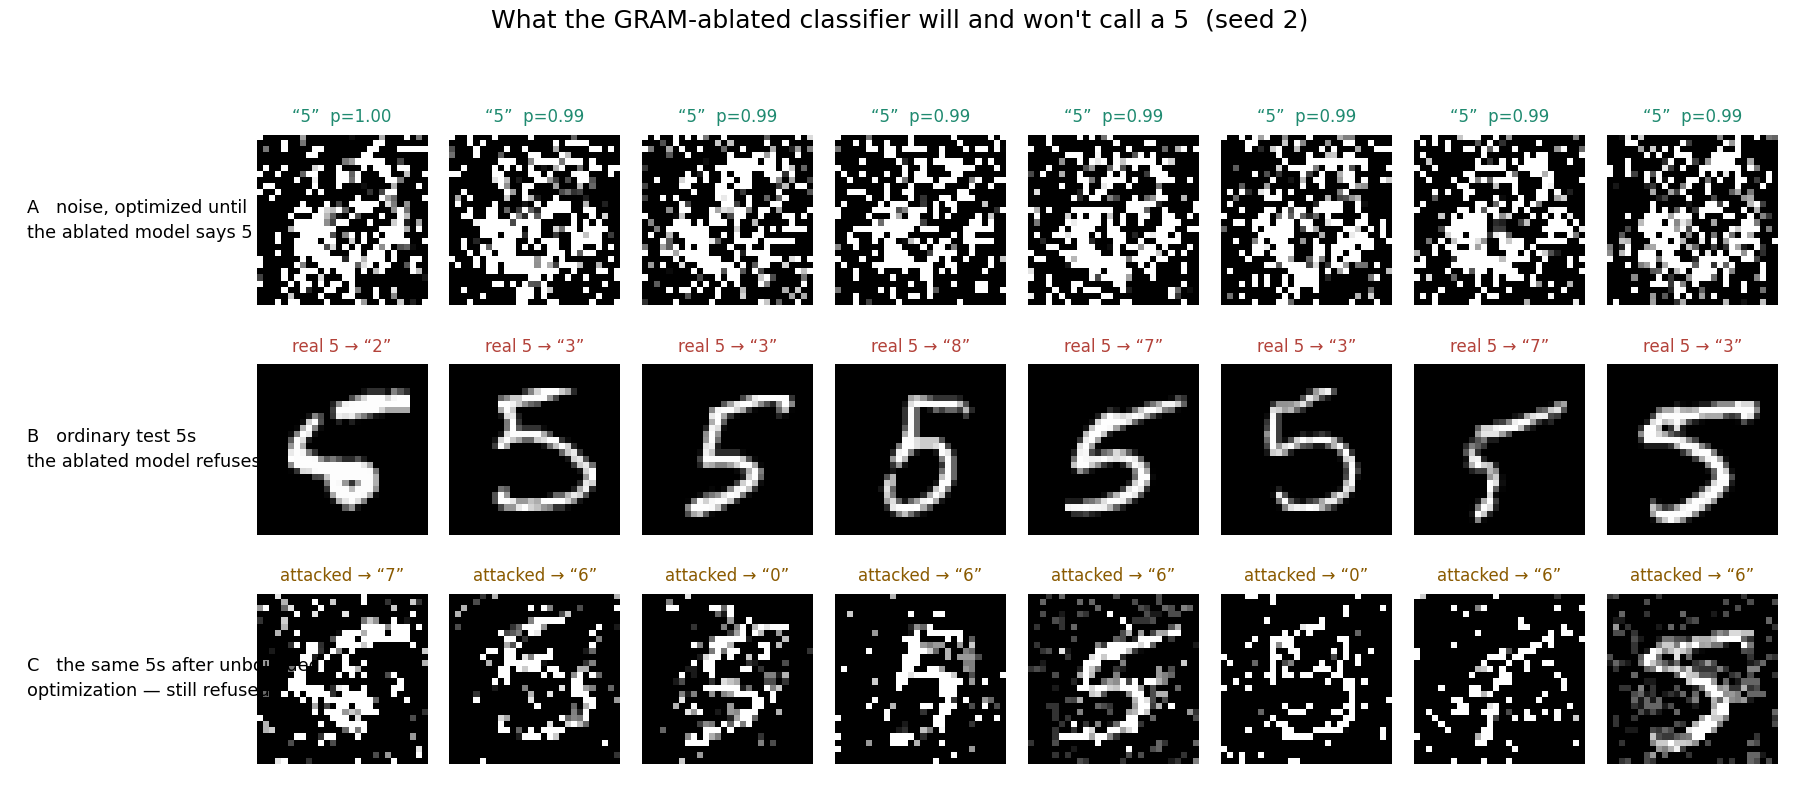
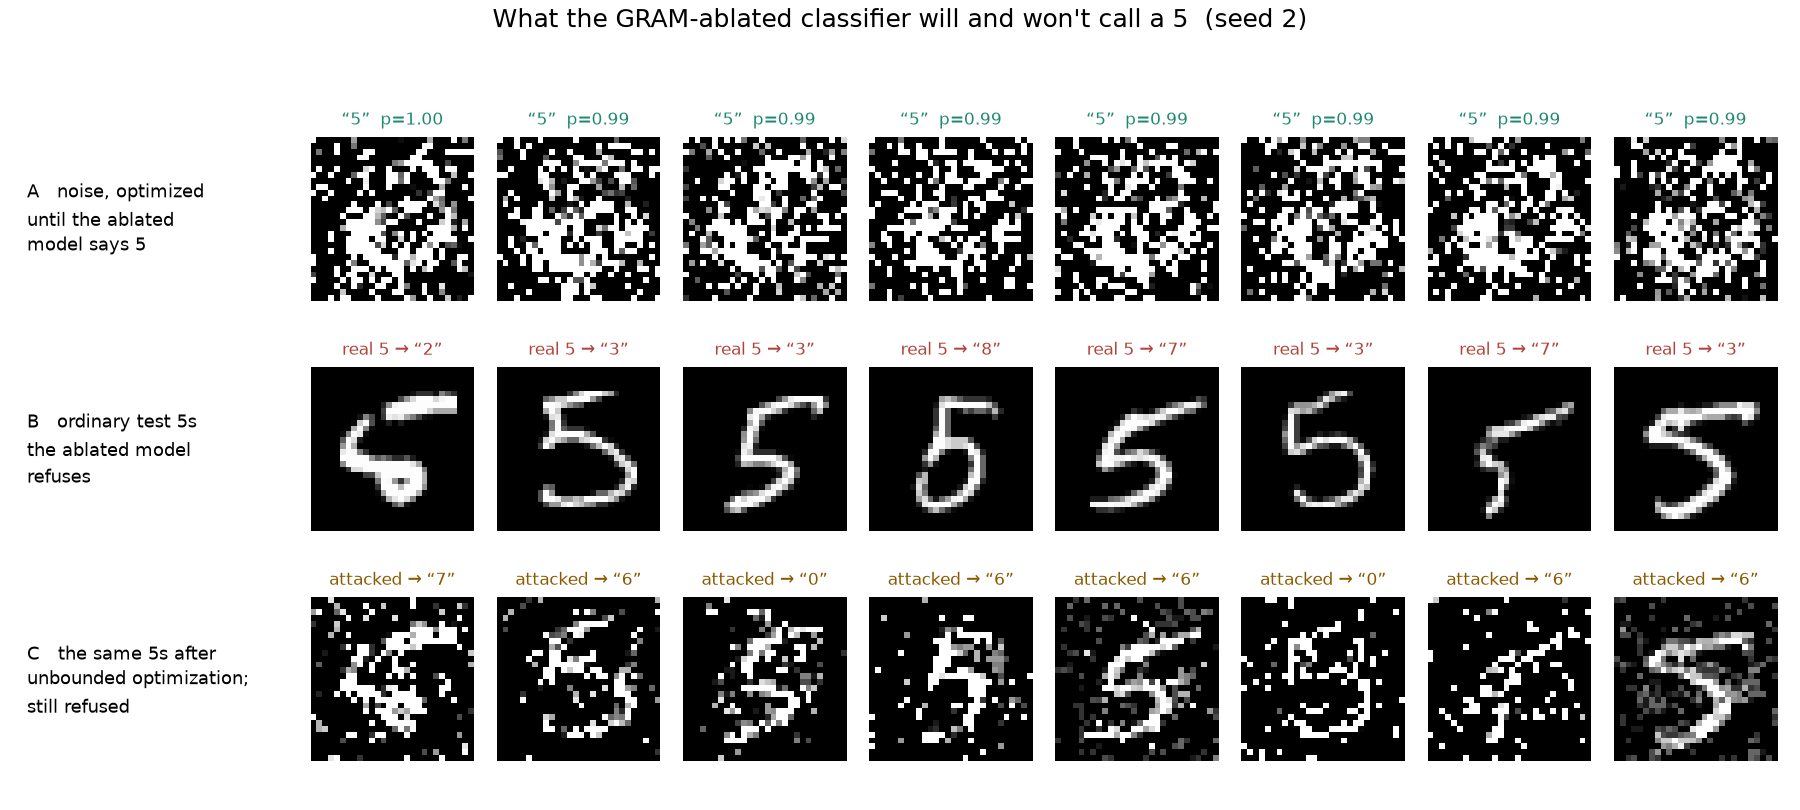
what_it_calls_five: keep the row labels clear of the images
Widen the left margin and wrap the labels in viz5.py. The seed-2
checkpoint was not kept and a retrained model differs, so the PNG is
redrawn with the new layout from the 24 images read back out of the
old one (row B matches the MNIST test 5s to within 1/255).

Changed region(s): [[0.0, 0.1235, 0.9956, 0.9568], [0.28, 0.0, 0.7156, 0.0309]]

diff --git a/viz5.py b/viz5.py
@@ -83,11 +83,11 @@ def main():
         ax.set_title(f"attacked → “{predb[j].item()}”", fontsize=8, color="#8a5a00")
     fig.suptitle("What the GRAM-ablated classifier will and won't call a 5  (seed 2)",
                  fontsize=12, y=0.99)
-    plt.tight_layout(rect=[0.13, 0.0, 1, 0.96])
+    plt.tight_layout(rect=[0.16, 0.0, 1, 0.96])
     for r, lab in enumerate([
-            "A   noise, optimized until\nthe ablated model says 5",
-            "B   ordinary test 5s\nthe ablated model refuses",
-            "C   the same 5s after unbounded\noptimization — still refused"]):
+            "A   noise, optimized\nuntil the ablated\nmodel says 5",
+            "B   ordinary test 5s\nthe ablated model\nrefuses",
+            "C   the same 5s after\nunbounded optimization;\nstill refused"]):
         box = axes[r, 0].get_position()
         fig.text(0.015, box.y0 + box.height / 2, lab, va="center", ha="left",
                  fontsize=8.5, linespacing=1.5)
